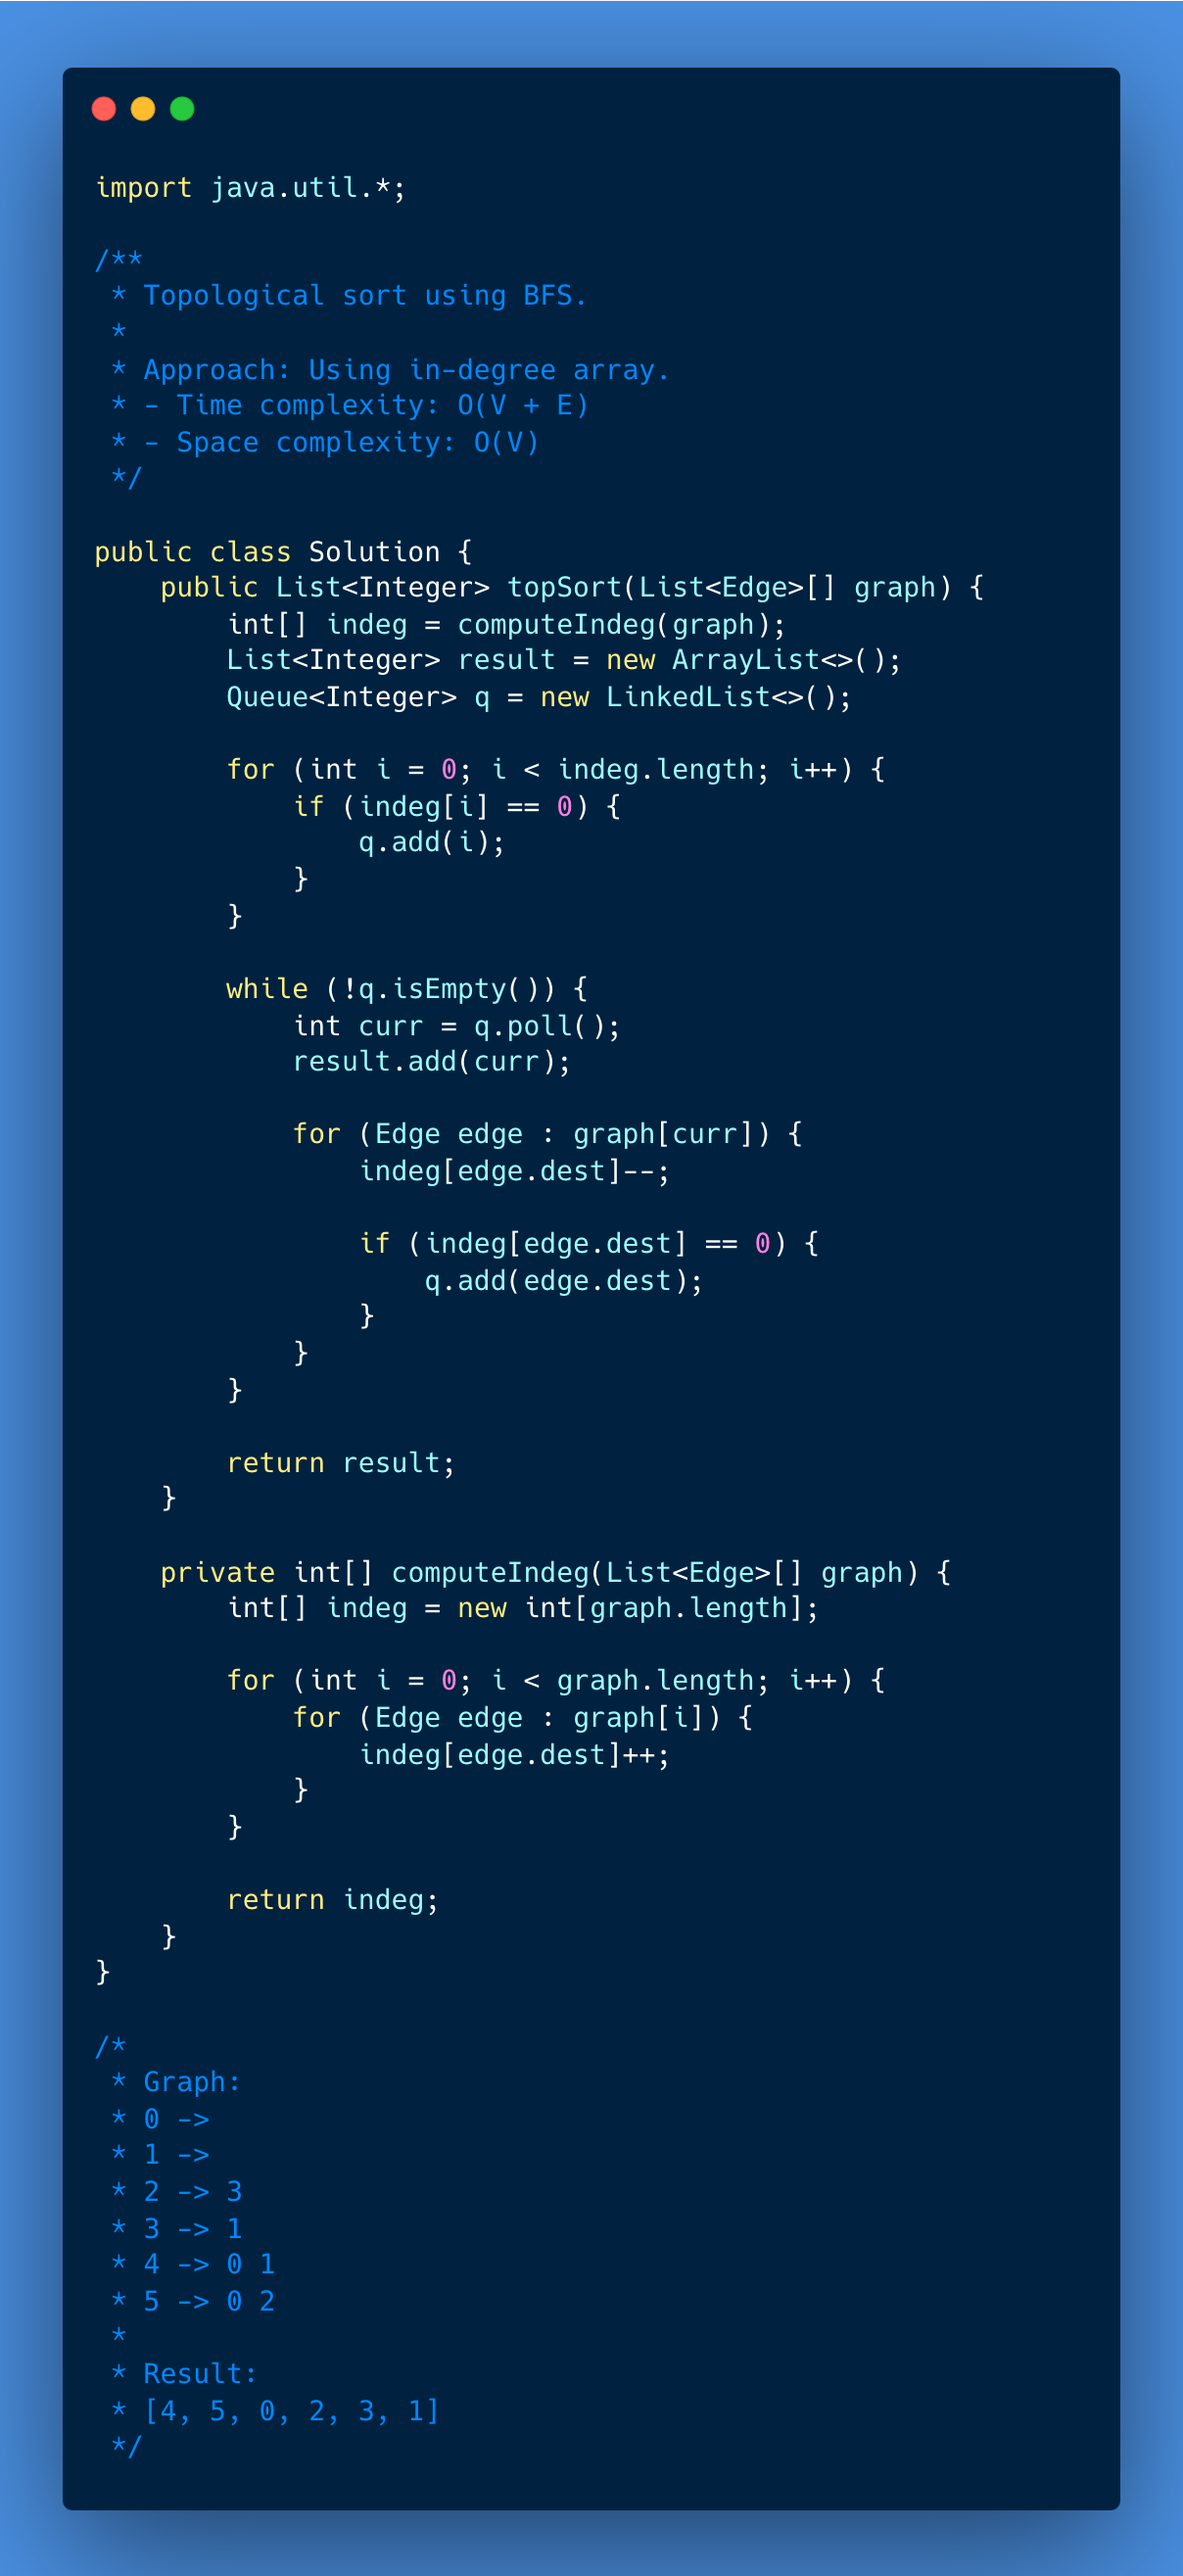
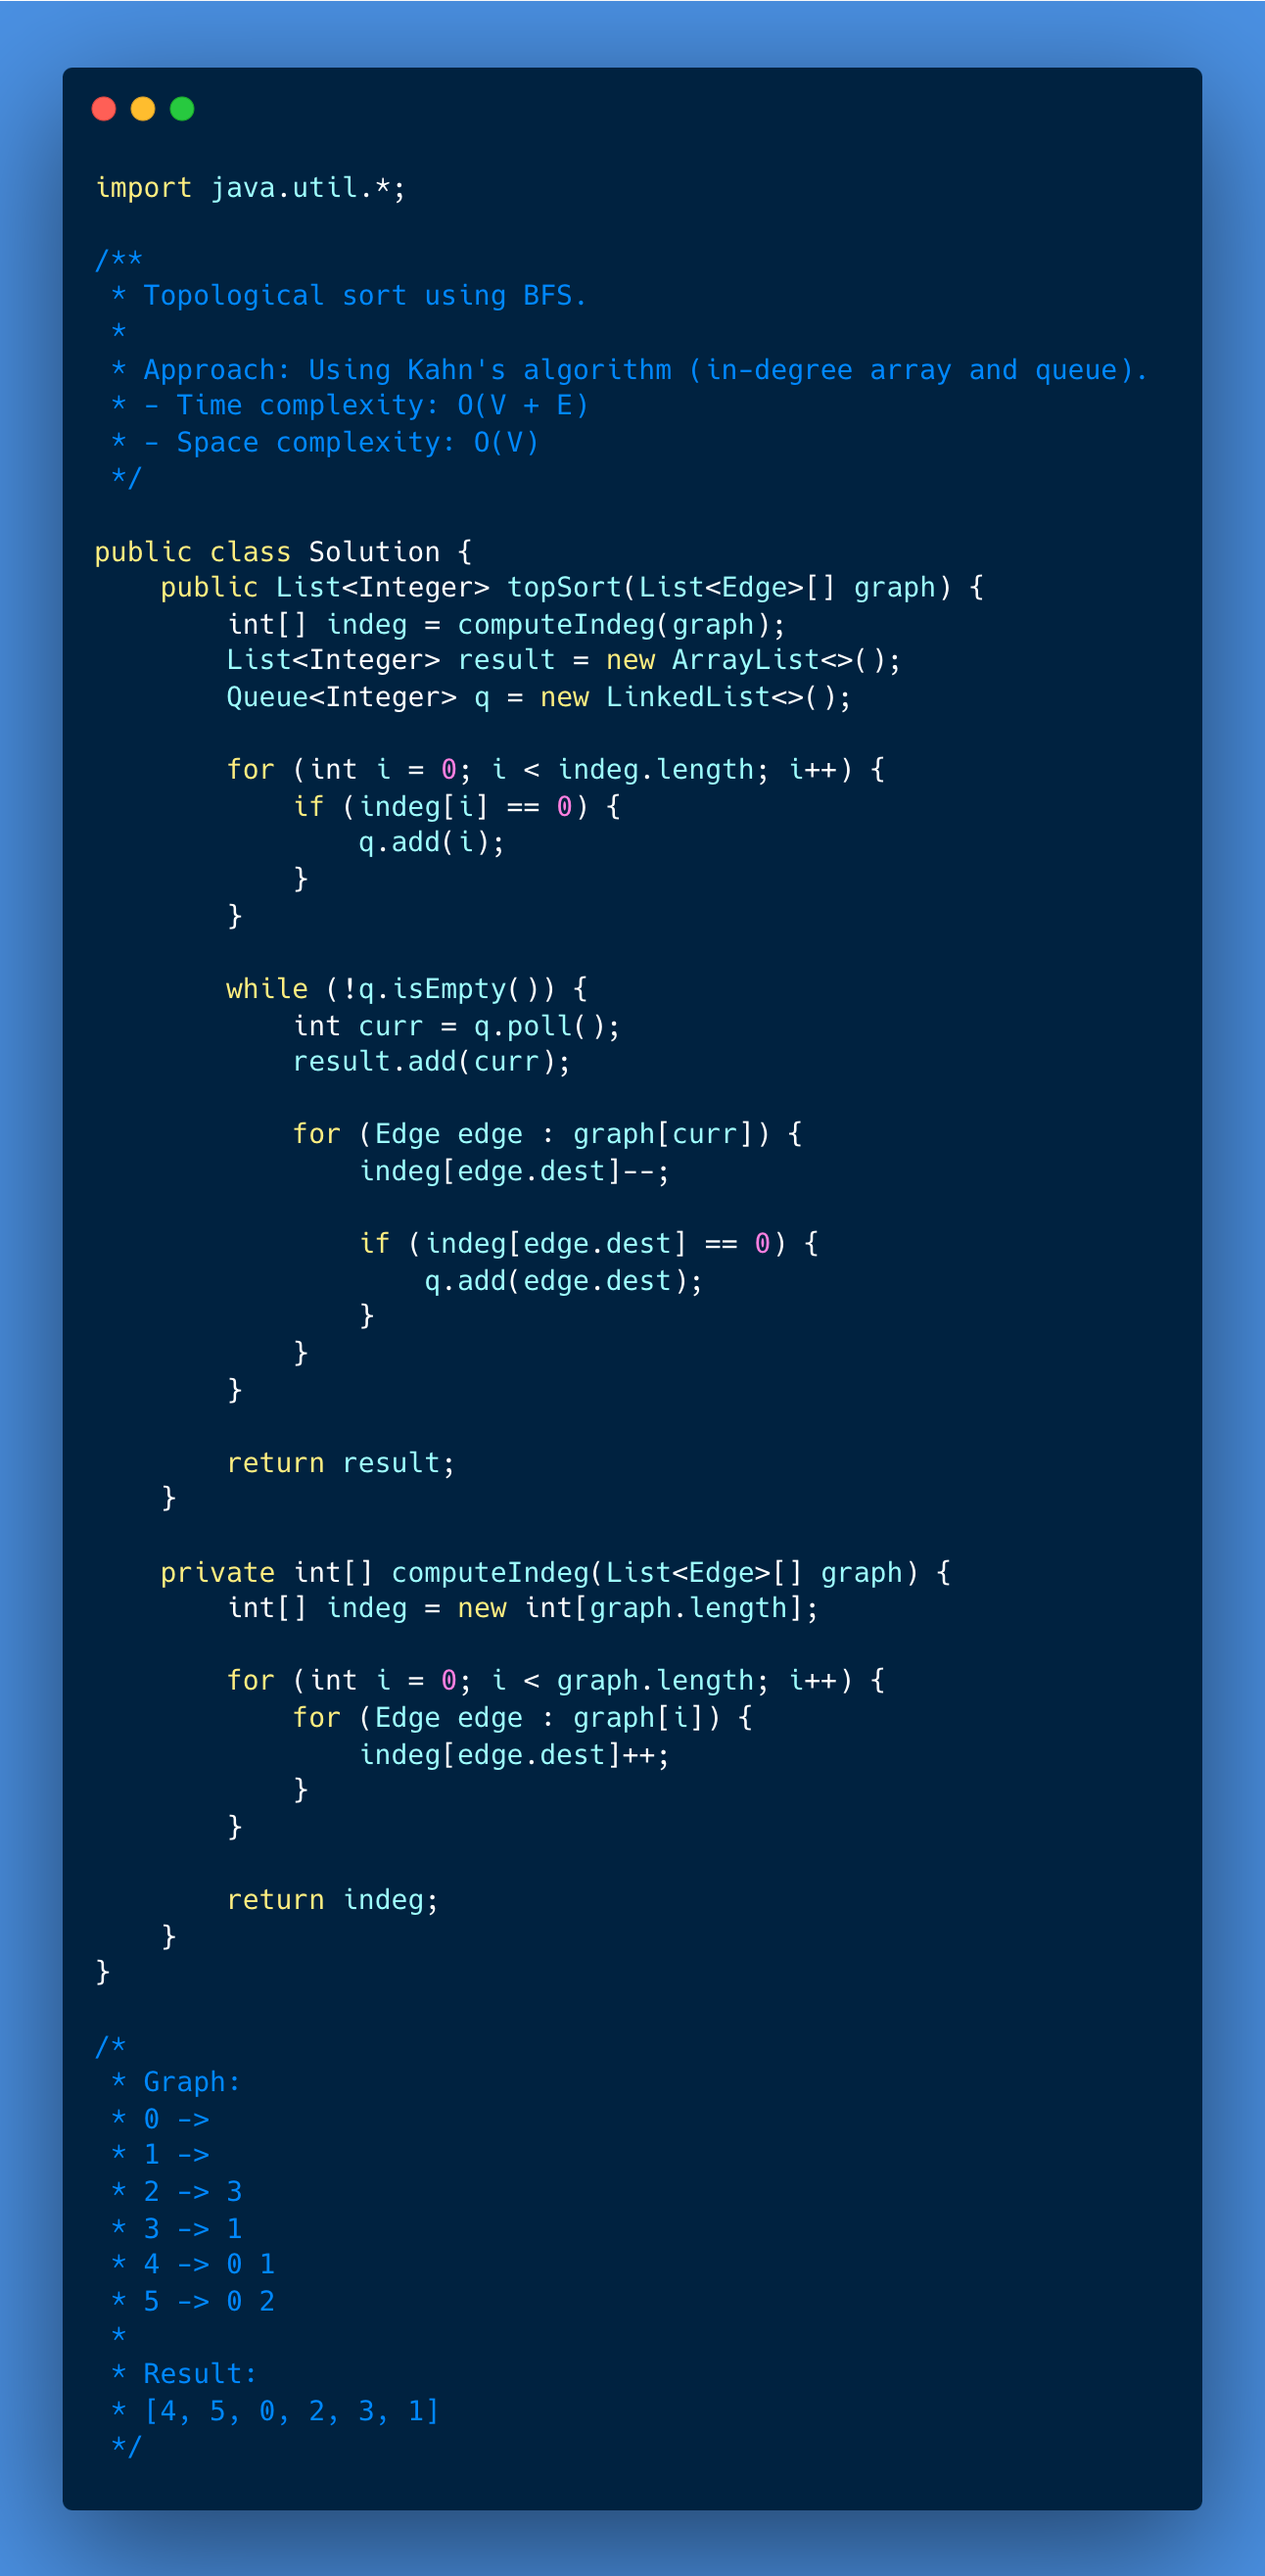
Update code comment and mention Kahn's Algo

diff --git a/254-topological-sort-bfs/001-solution/Solution.java b/254-topological-sort-bfs/001-solution/Solution.java
@@ -3,7 +3,7 @@ import java.util.*;
 /**
  * Topological sort using BFS.
  * 
- * Approach: Using in-degree array.
+ * Approach: Using Kahn's algorithm (in-degree array and queue).
  * - Time complexity: O(V + E)
  * - Space complexity: O(V)
  */
